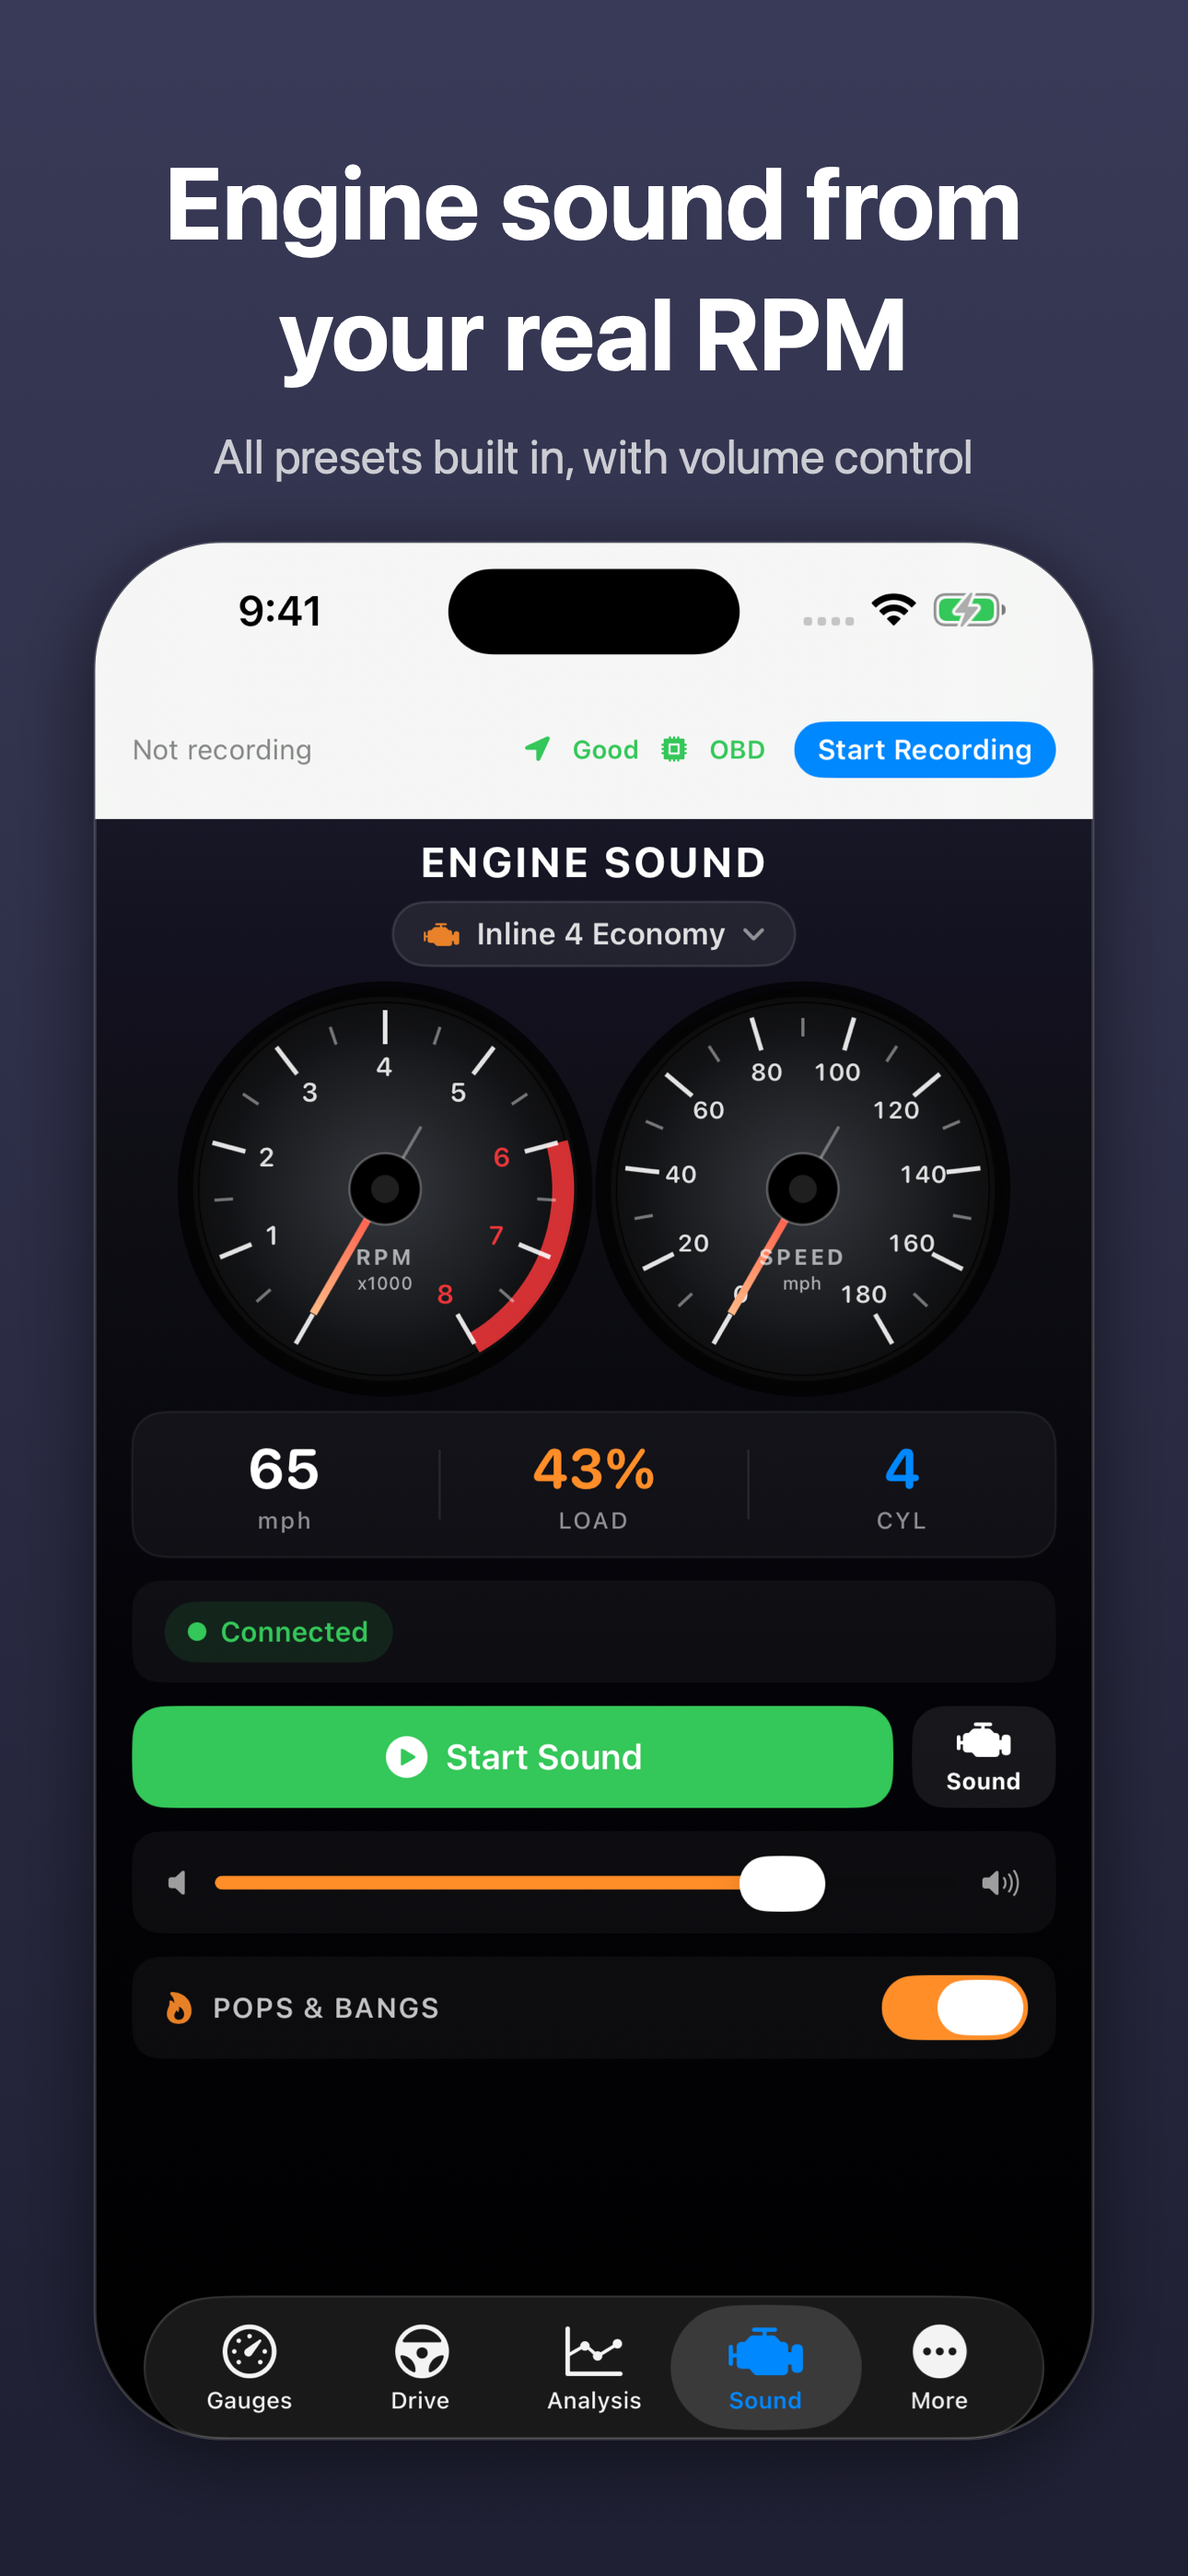
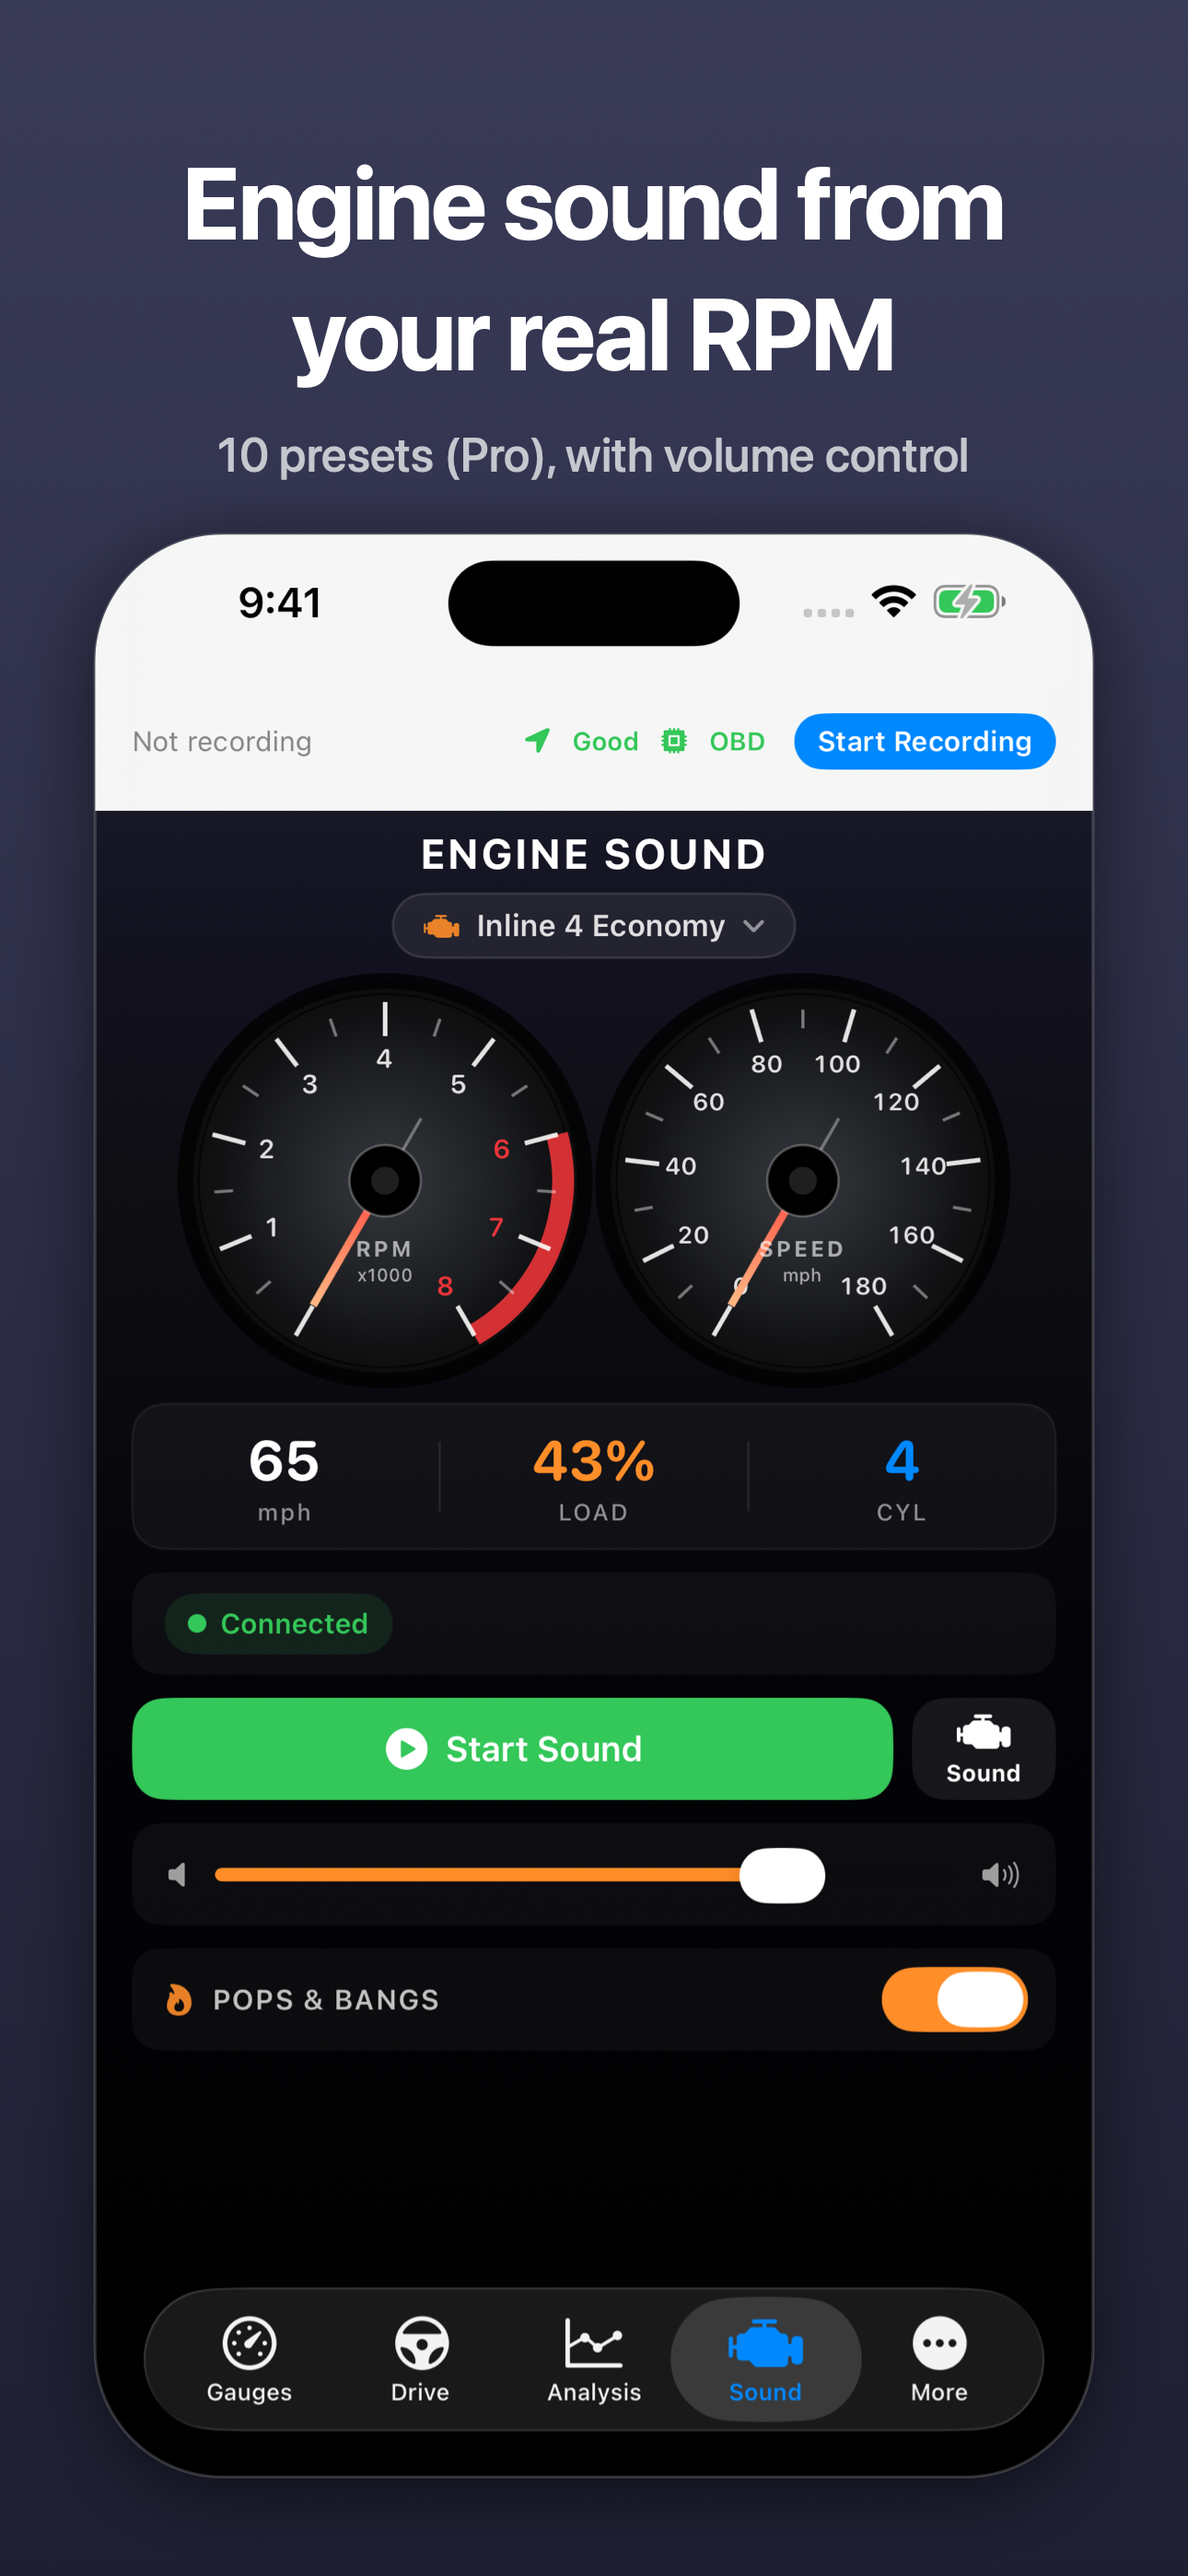
store: ship-gate NO-GO 対応 — 02_sound の見出し「全プリセット搭載」→「10 種のプリセット(Pro)」で日英再合成、description 7 ロケールの無料訴求を言い換え(lint PASS)、CLAUDE.md の音プリセット記述を更新。ASC 1.1.0 へ反映済み
Claude-Session: https://claude.ai/code/session_015iB6S2bFbgy2e1b8g1WGHo

diff --git a/store/ASO_NOTES.md b/store/ASO_NOTES.md
@@ -61,3 +61,4 @@
 - keywords は元々 subscription 系語を含んでおらず撤去対象なし。ja に「デジタルメーター」(iTunes suggest API・JP storefront で実需要確認、速度計アプリ genre)、zh-Hans に「车载仪表」(CN storefront で実需要確認、Navigation genre の車状態アプリがヒット)を追加。en-US の instrument cluster/digital gauge は 2026-08-17 に死に枠と実測済みのため見送り(README の仮説Bはこの実測を未反映の古い提案)。de/fr/es は keywords が96〜98/100字で空きがなく、計器系語の検証未実施のため keywords は無変更。
 - ja/en-US の release_notes.txt(whatsNew)を 1.1.0 想定でサブスク化告知に全面差し替え(既存 Pro 所有者は変更なしと明記)。de/fr/es/zh の release_notes.txt は今回未変更(指示対象外)。
 - lint: `company-os/bin/store_lint.sh car_ui` は ja/en-US description.txt の「無料」「free」で NG(2026-08-17記録済みの既知の過剰検知、「無料でできること」等の未変更段落由来。今回の変更前後で NG 件数・内容は同一 = 新規劣化なし)。
+- 2026-09-21: ship-gate NO-GO 対応: description 7 ロケールの「無料でできること/FREE INCLUDES」「ほぼ全機能を無料」「無料版では」を「基本機能/INCLUDED」「標準搭載」「Pro 未購入の間は」に言い換え(2.3.7 の無料訴求を回避、lint PASS)。「広告除去・Pro の購入で」→「Pro で」(adfree は公開当日に販売停止のため)。ASC 1.1.0 へ再反映済み。
